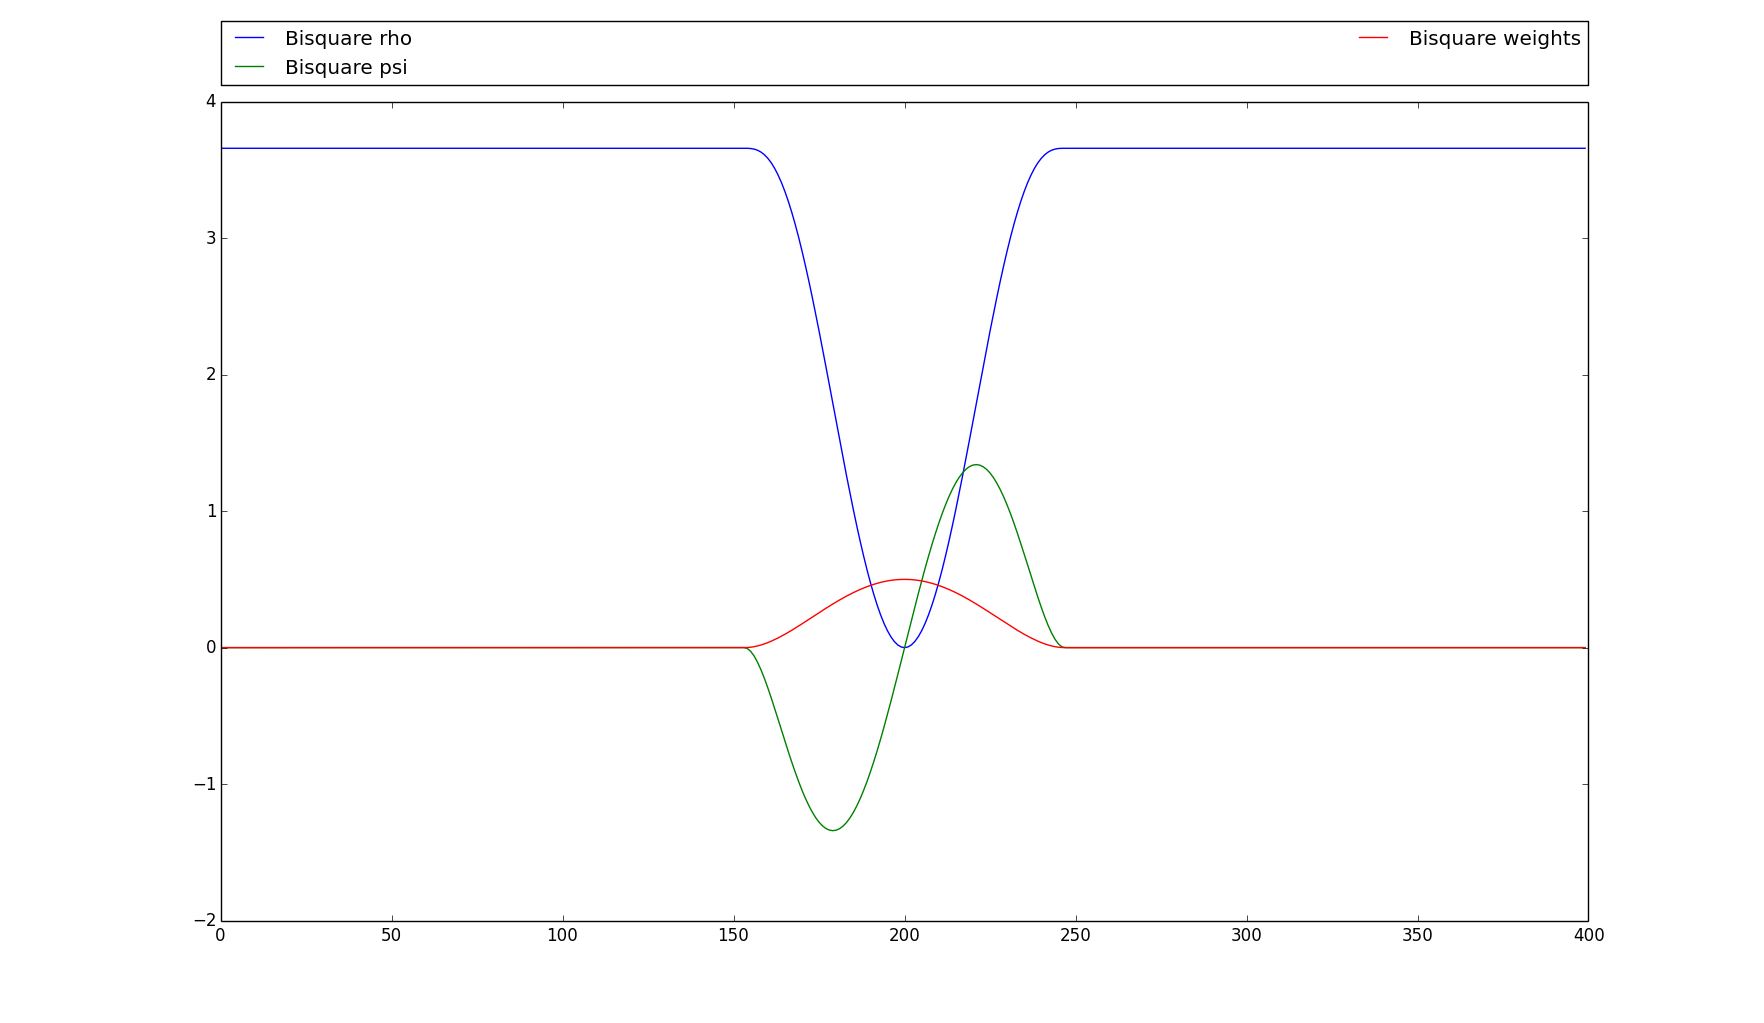
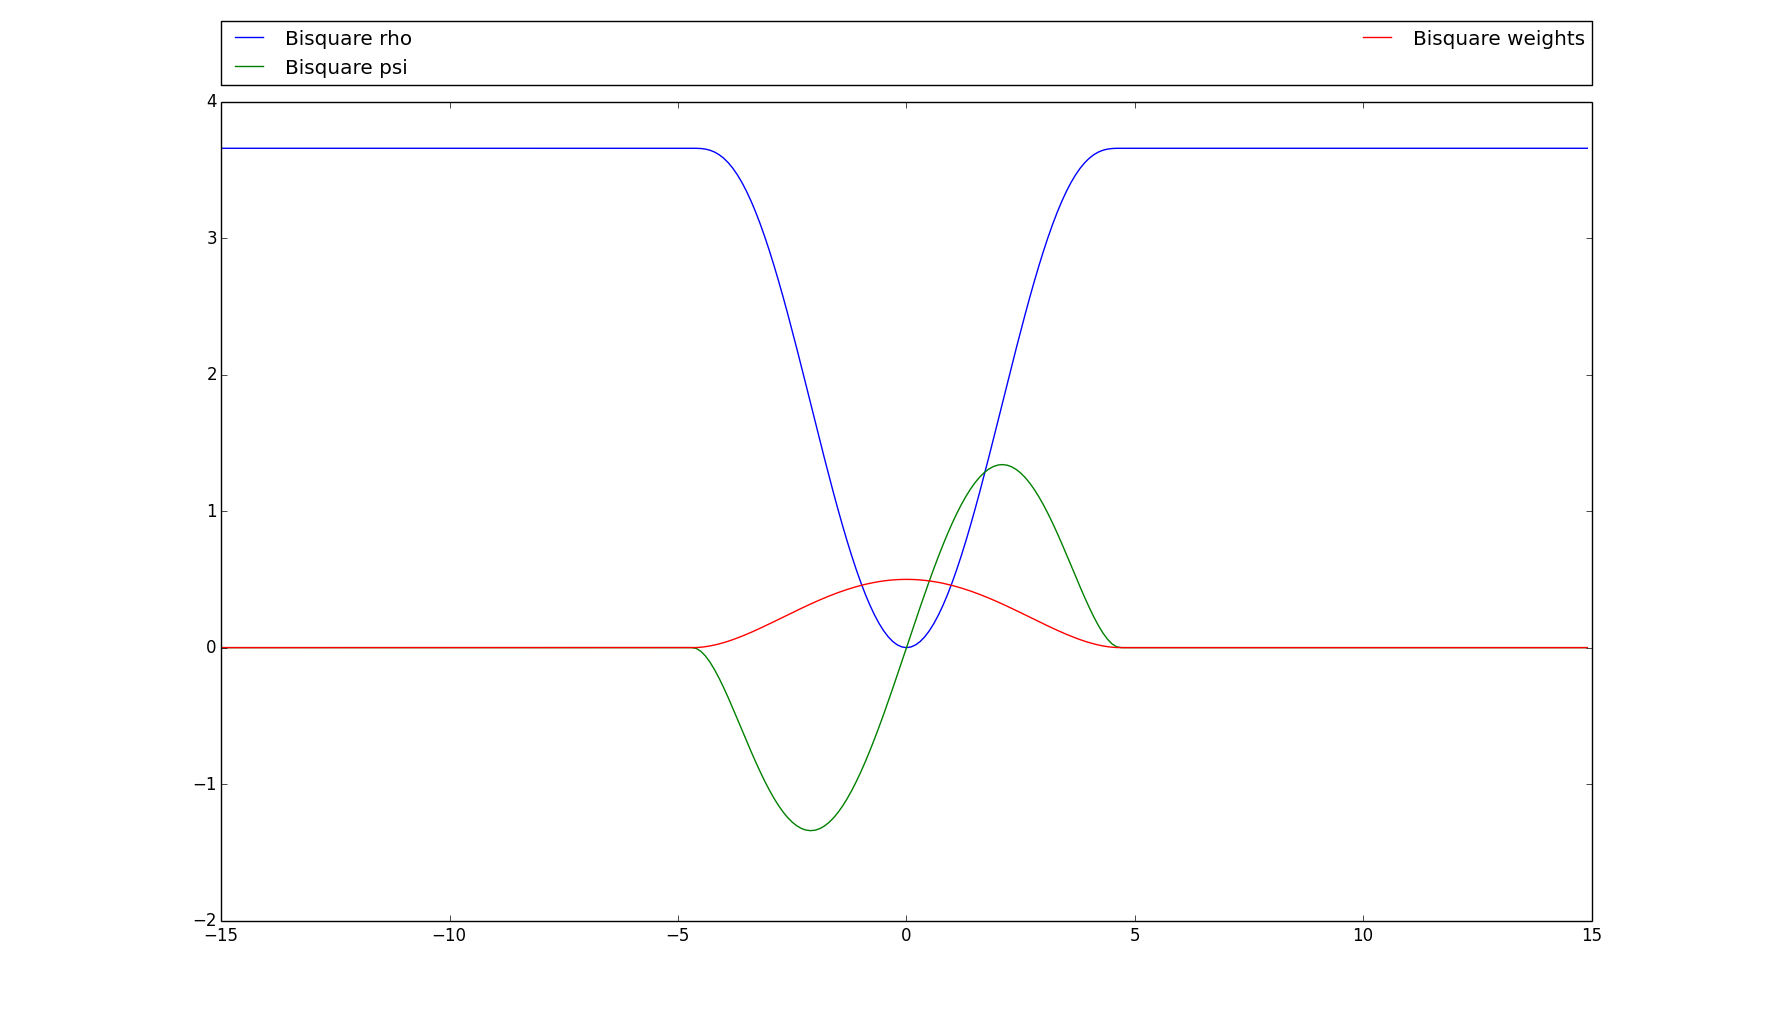
message

diff --git a/linvpy.py b/linvpy.py
@@ -43,30 +43,30 @@ class LossFunction:
         """
         import matplotlib.pyplot as plt
 
-        plt.plot(
-            [self.rho(i) for i in np.linspace(-interval, interval, num=10*interval)],
-            label=self.__class__.__name__ + ' rho'
-        )
+        # Creates a range between -interval and interval with a step of 0.1
+        x = np.arange(-interval, interval, 0.1)
 
-        # plt.plot(
-        #     [self.psi(i) for i in np.linspace(-interval, interval, num=10*interval)],
-        #     label=self.__class__.__name__ + ' psi'
-        # )
-        #
-        # plt.plot([self.m_weights(i) for i in np.linspace(-interval, interval, num=10*interval)],
-        #          label=self.__class__.__name__ + ' weights'
-        #          )
+        # The different functions to be plotted on the interval
+        y_rho = self.rho(x)
+        y_psi = self.psi(x)
+        y_weights = self.m_weights(x)
+
+        plt.plot(x, y_rho,
+                 label=self.__class__.__name__ + ' rho'
+                 )
+
+        plt.plot(x, y_psi,
+                 label=self.__class__.__name__ + ' psi'
+                 )
+
+        plt.plot(x, y_weights,
+                 label=self.__class__.__name__ + ' weights'
+                 )
 
         plt.legend(
             bbox_to_anchor=(0., 1.02, 1., .102),
             loc=3, ncol=2, mode="expand", borderaxespad=0.
         )
-
-        #axes = plt.gca()
-        #axes.set_xlim([-interval,interval])
-        # axes.set_ylim([ymin,ymax])
-
-        # plt.ticklabel_format(style='sci', axis='x', scilimits=(0,0))
 
         plt.show()
 

diff --git a/test.py b/test.py
@@ -91,3 +91,37 @@ print np.arange(-20, 20, 0.1)
 interval = 20
 
 print np.linspace(-interval, interval, num=10*interval)
+
+
+import matplotlib.pyplot as plt
+
+# plt.plot(
+#     [2*i for i in (-1, 0, 1,2,3)],
+#     label=' rho'
+# )
+
+x = np.arange(0, 5, 0.1);
+y = 2*x
+plt.plot(x, y)
+
+# plt.plot(
+#     [self.psi(i) for i in np.linspace(-interval, interval, num=10*interval)],
+#     label=self.__class__.__name__ + ' psi'
+# )
+#
+# plt.plot([self.m_weights(i) for i in np.linspace(-interval, interval, num=10*interval)],
+#          label=self.__class__.__name__ + ' weights'
+#          )
+
+# plt.legend(
+#     bbox_to_anchor=(0., 1.02, 1., .102),
+#     loc=3, ncol=2, mode="expand", borderaxespad=0.
+# )
+
+#axes = plt.gca()
+#axes.set_xlim([-interval,interval])
+# axes.set_ylim([ymin,ymax])
+
+# plt.ticklabel_format(style='sci', axis='x', scilimits=(0,0))
+
+plt.show()

diff --git a/test_final.py b/test_final.py
@@ -301,7 +301,7 @@ def cover_fast_tau():
 # ===================================== MAIN ==================================
 
 
-plot_loss_functions(20)
+plot_loss_functions(15)
 
 test_TauEstimator_alone()
 
